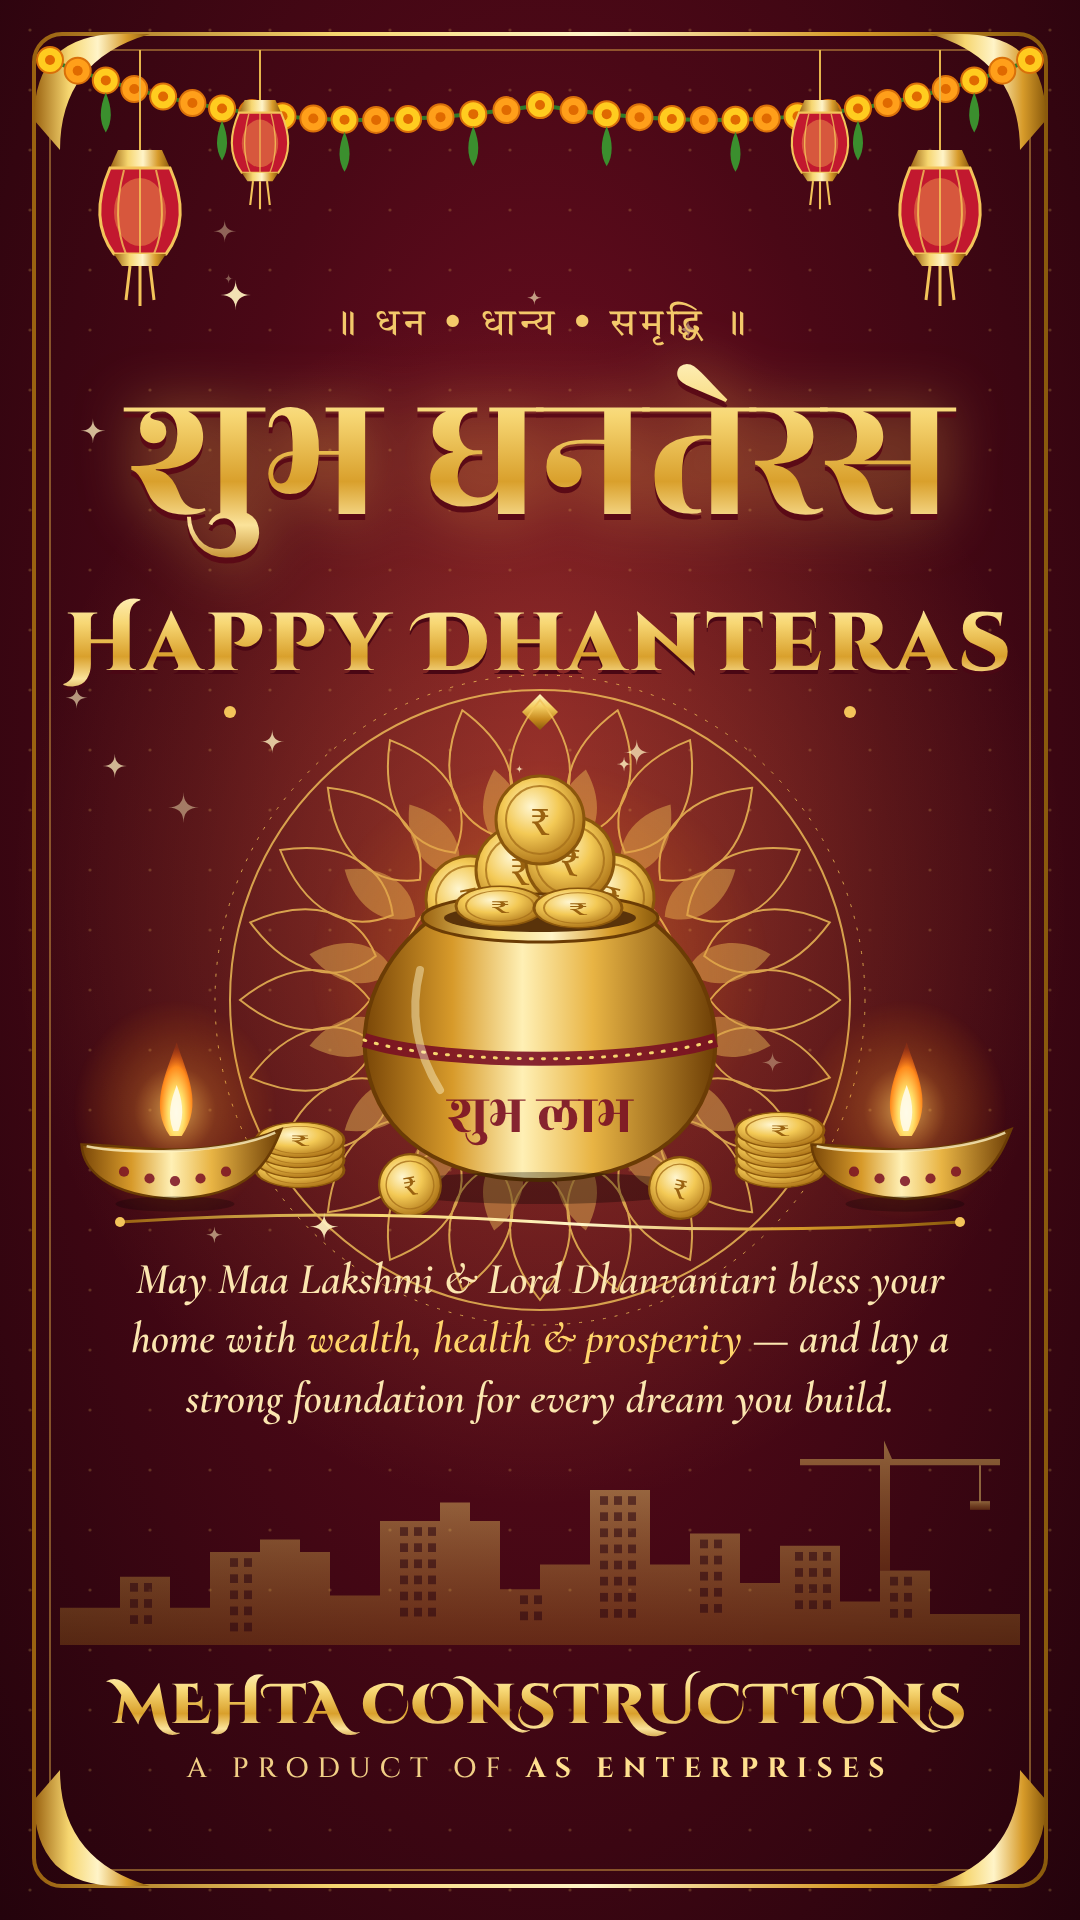
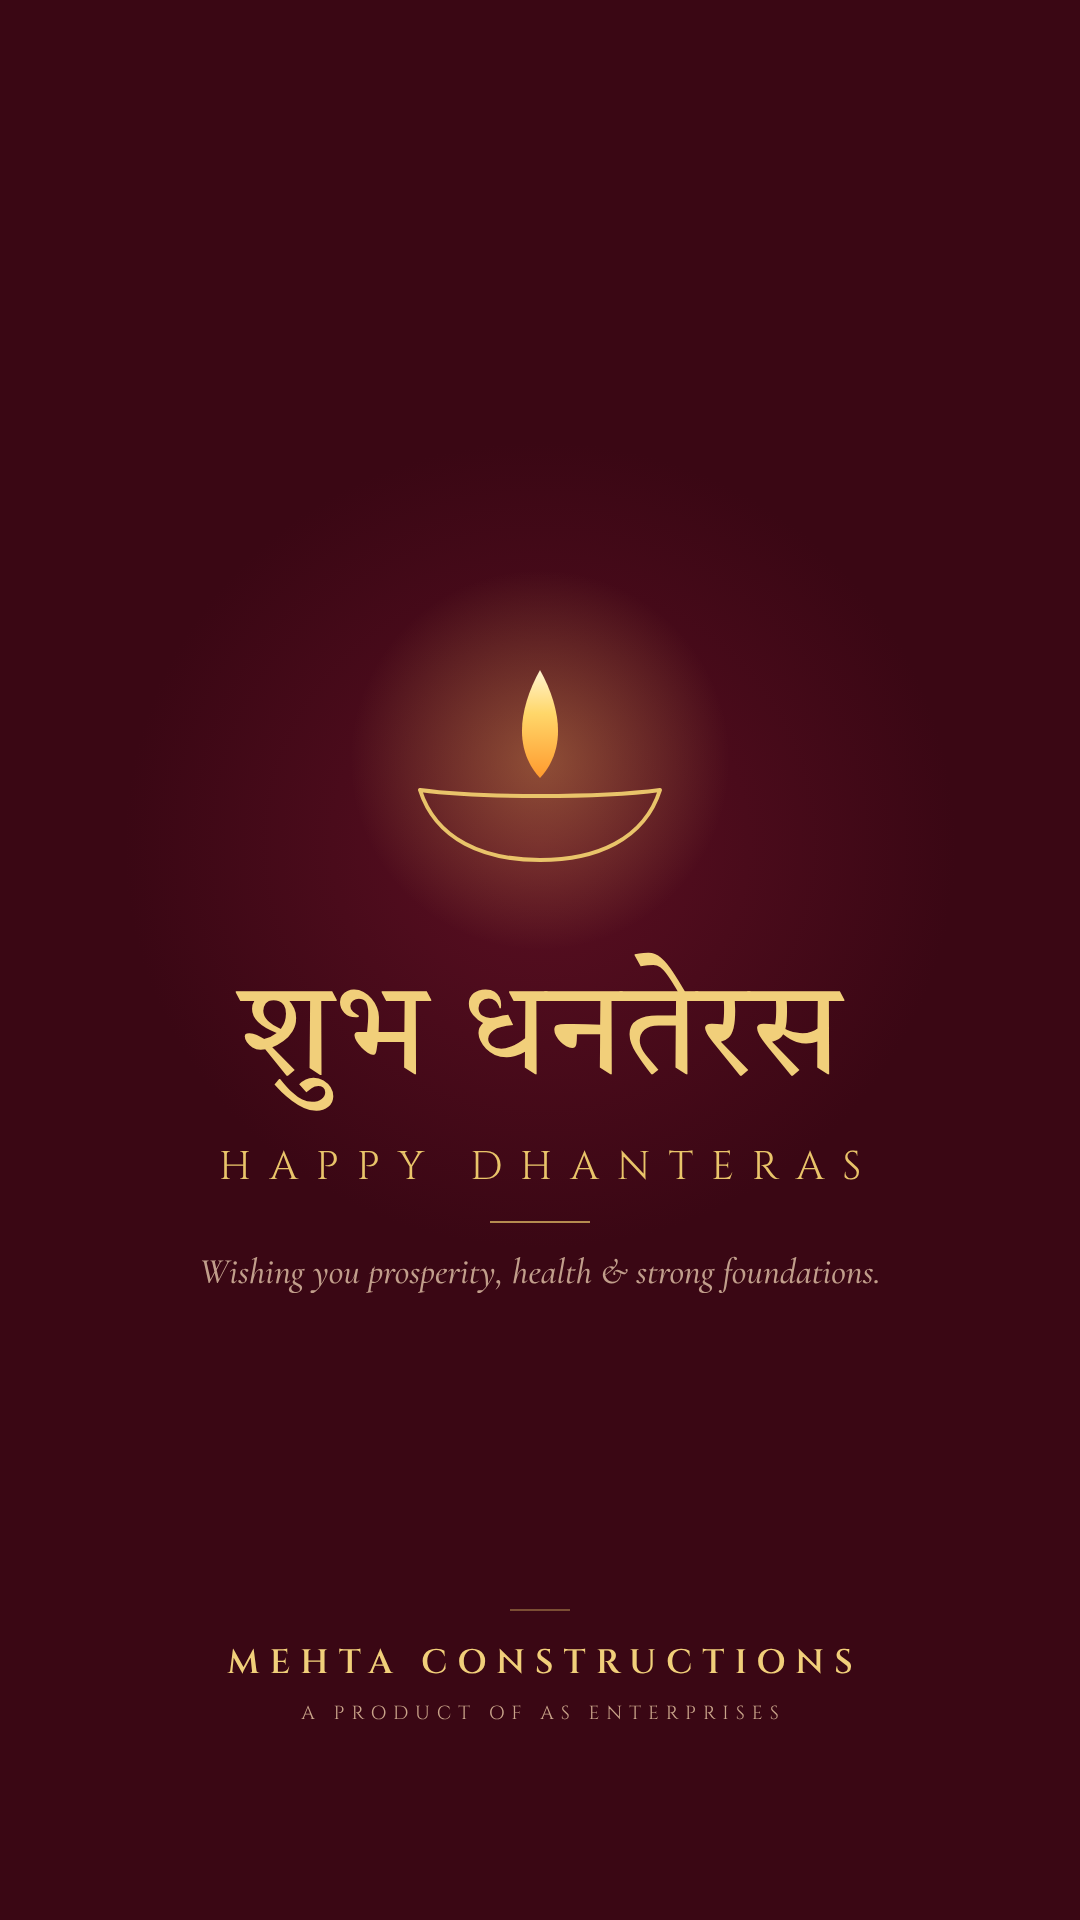
Make Dhanteras story poster minimal
Single line-art diya, title, one-line wish and brand on plain maroon.

Claude-Session: https://claude.ai/code/session_01NdyfKg8HmPHHoZPy2BmFos

diff --git a/dhanteras/story.html b/dhanteras/story.html
@@ -1,251 +1,56 @@
 <!doctype html>
 <html><head><meta charset="utf-8">
 <title>Happy Dhanteras – Mehta Constructions</title>
-<link href="https://fonts.googleapis.com/css2?family=Cinzel+Decorative:wght@700;900&family=Cinzel:wght@500;700&family=Rozha+One&family=Tiro+Devanagari+Hindi&family=Cormorant+Garamond:ital,wght@1,500;1,600&display=swap" rel="stylesheet">
+<link href="https://fonts.googleapis.com/css2?family=Cinzel:wght@400;600&family=Tiro+Devanagari+Hindi&family=Cormorant+Garamond:ital,wght@1,500&display=swap" rel="stylesheet">
 <style>
   *{margin:0;padding:0;box-sizing:border-box}
-  html,body{width:1080px;height:1920px;background:#2a0410;overflow:hidden}
+  html,body{width:1080px;height:1920px;background:#3a0714;overflow:hidden}
   .story{position:relative;width:1080px;height:1920px;overflow:hidden;
-    background:
-      radial-gradient(ellipse 70% 45% at 50% 47%, rgba(255,170,60,.28), transparent 70%),
-      radial-gradient(ellipse at 50% 40%, #7a1024 0%, #4a0816 45%, #24030c 100%);
-    color:#f6d77a;font-family:'Cinzel',serif}
-  .gold{background:linear-gradient(180deg,#fff3c4 0%,#f7d774 30%,#d9a02c 60%,#fbe39a 80%,#b67a17 100%);
-    -webkit-background-clip:text;background-clip:text;color:transparent}
+    background:radial-gradient(ellipse 55% 30% at 50% 44%, #5a0f22 0%, #3a0714 70%);color:#e9c46a}
   svg{position:absolute;left:0;top:0}
   .t{position:absolute;left:0;width:100%;text-align:center}
-  .kicker{top:300px;font-family:'Tiro Devanagari Hindi',serif;font-size:38px;letter-spacing:4px;color:#f3c96a}
-  .hi{top:350px;font-family:'Rozha One',serif;font-size:190px;line-height:1.15;
-      filter:drop-shadow(0 6px 0 #5b0a16) drop-shadow(0 0 30px rgba(255,190,80,.45))}
-  .en{top:590px;font-family:'Cinzel Decorative',serif;font-weight:900;font-size:82px;letter-spacing:4px;
-      filter:drop-shadow(0 4px 0 #4a0714)}
-  .msg{top:1250px;padding:0 120px;font-family:'Cormorant Garamond',serif;font-style:italic;font-weight:600;
-      font-size:44px;line-height:1.35;color:#fbe6b0}
-  .msg b{color:#ffd56b;font-weight:600}
-  .brand{top:1668px}
-  .brand .name{font-family:'Cinzel Decorative',serif;font-weight:900;font-size:56px;letter-spacing:2px}
-  .brand .sub{margin-top:6px;font-family:'Cinzel',serif;font-weight:500;font-size:28px;letter-spacing:9px;color:#f1cf86}
-  .brand .sub em{font-style:normal;font-weight:700;color:#ffe08f}
+  .hi{top:960px;font-family:'Tiro Devanagari Hindi',serif;font-size:132px;line-height:1.2;color:#f1cf7a}
+  .en{top:1140px;font-family:'Cinzel',serif;font-weight:400;font-size:40px;letter-spacing:18px;padding-left:18px;color:#e9c46a}
+  .msg{top:1250px;font-family:'Cormorant Garamond',serif;font-style:italic;font-weight:500;font-size:36px;color:#d9b9a0;opacity:.85}
+  .brand{top:1640px}
+  .brand .name{font-family:'Cinzel',serif;font-weight:600;font-size:34px;letter-spacing:10px;padding-left:10px;color:#f1cf7a}
+  .brand .sub{margin-top:14px;font-family:'Cinzel',serif;font-size:19px;letter-spacing:7px;padding-left:7px;color:#c9a48a}
 </style></head>
 <body><div class="story">
 
-<!-- ===== background + illustration layer ===== -->
 <svg width="1080" height="1920" viewBox="0 0 1080 1920">
   <defs>
-    <linearGradient id="g" x1="0" y1="0" x2="0" y2="1">
-      <stop offset="0" stop-color="#fff2bf"/><stop offset=".35" stop-color="#f4cf63"/>
-      <stop offset=".7" stop-color="#c88a1e"/><stop offset="1" stop-color="#8a5a0c"/>
-    </linearGradient>
-    <linearGradient id="gh" x1="0" y1="0" x2="1" y2="0">
-      <stop offset="0" stop-color="#9a6210"/><stop offset=".3" stop-color="#f6d670"/>
-      <stop offset=".55" stop-color="#fff4c8"/><stop offset=".8" stop-color="#d79b2a"/><stop offset="1" stop-color="#8a5a0c"/>
-    </linearGradient>
-    <radialGradient id="coin" cx=".4" cy=".35" r=".7">
-      <stop offset="0" stop-color="#fff6cf"/><stop offset=".45" stop-color="#f3c955"/><stop offset="1" stop-color="#a86d12"/>
-    </radialGradient>
-    <radialGradient id="flame" cx=".5" cy=".75" r=".7">
-      <stop offset="0" stop-color="#fffbe6"/><stop offset=".35" stop-color="#ffe06a"/>
-      <stop offset=".7" stop-color="#ff8a1c"/><stop offset="1" stop-color="#e2420a" stop-opacity=".2"/>
-    </radialGradient>
     <radialGradient id="glow" cx=".5" cy=".5" r=".5">
-      <stop offset="0" stop-color="#ffd36b" stop-opacity=".75"/><stop offset=".4" stop-color="#ff9a2a" stop-opacity=".25"/>
-      <stop offset="1" stop-color="#ff7a00" stop-opacity="0"/>
+      <stop offset="0" stop-color="#ffc861" stop-opacity=".35"/>
+      <stop offset="1" stop-color="#ffc861" stop-opacity="0"/>
     </radialGradient>
-    <linearGradient id="pot" x1="0" y1="0" x2="1" y2="0">
-      <stop offset="0" stop-color="#7a4708"/><stop offset=".25" stop-color="#d79a2a"/>
-      <stop offset=".45" stop-color="#fff0b5"/><stop offset=".65" stop-color="#e8b444"/><stop offset="1" stop-color="#6e3f06"/>
+    <linearGradient id="flame" x1="0" y1="1" x2="0" y2="0">
+      <stop offset="0" stop-color="#ff9a2e"/><stop offset=".6" stop-color="#ffd76a"/><stop offset="1" stop-color="#fff4d0"/>
     </linearGradient>
-    <linearGradient id="sky" x1="0" y1="0" x2="0" y2="1">
-      <stop offset="0" stop-color="#f6d670" stop-opacity=".9"/><stop offset="1" stop-color="#b9801c" stop-opacity=".55"/>
-    </linearGradient>
-
-    <!-- mandala petal ring -->
-    <g id="petal"><path d="M0,-300 C40,-250 40,-200 0,-170 C-40,-200 -40,-250 0,-300Z" fill="none" stroke="#f3c45a" stroke-width="2"/></g>
-    <g id="petal2"><path d="M0,-235 C26,-205 26,-170 0,-150 C-26,-170 -26,-205 0,-235Z" fill="#f3c45a" opacity=".55"/></g>
-
-    <!-- coin -->
-    <g id="c">
-      <ellipse rx="44" ry="44" fill="url(#coin)" stroke="#8a560c" stroke-width="3"/>
-      <ellipse rx="34" ry="34" fill="none" stroke="#a8701a" stroke-width="2" opacity=".8"/>
-      <text y="15" text-anchor="middle" font-family="Tiro Devanagari Hindi,serif" font-size="42" fill="#9a6210">₹</text>
-    </g>
-
-    <!-- diya -->
-    <g id="diya">
-      <ellipse cx="0" cy="-70" rx="120" ry="130" fill="url(#glow)"/>
-      <path d="M-6,-40 C-30,-75 -12,-110 2,-150 C14,-112 34,-78 8,-40 Z" fill="url(#flame)"/>
-      <path d="M-2,-46 C-10,-66 -4,-84 2,-100 C8,-84 12,-66 4,-46 Z" fill="#fffbe8" opacity=".9"/>
-      <path d="M-110,-30 C-80,-30 -40,-24 0,-24 C40,-24 80,-30 125,-48 C110,-10 90,30 0,34 C-80,30 -108,0 -110,-30Z" fill="url(#pot)" stroke="#6b3c05" stroke-width="3"/>
-      <path d="M-104,-28 C-60,-18 60,-18 118,-44" fill="none" stroke="#fff3c0" stroke-width="3" opacity=".8"/>
-      <g fill="#7a1024" opacity=".85">
-        <circle cx="-60" cy="2" r="6"/><circle cx="-30" cy="10" r="6"/><circle cx="0" cy="13" r="6"/><circle cx="30" cy="10" r="6"/><circle cx="60" cy="2" r="6"/>
-      </g>
-      <ellipse cx="0" cy="40" rx="70" ry="9" fill="#000" opacity=".25"/>
-    </g>
-
-    <!-- hanging lantern -->
-    <g id="lamp">
-      <line x1="0" y1="0" x2="0" y2="1" stroke="#e5b54c" stroke-width="2"/>
-      <path d="M-22,0 L22,0 L30,18 L-30,18Z" fill="url(#gh)"/>
-      <path d="M-30,18 C-44,50 -44,80 -26,104 L26,104 C44,80 44,50 30,18Z" fill="#c2182f" stroke="#f3c45a" stroke-width="3"/>
-      <path d="M0,18 L0,104 M-16,20 C-24,50 -24,80 -14,104 M16,20 C24,50 24,80 14,104" stroke="#f3c45a" stroke-width="2" fill="none" opacity=".8"/>
-      <ellipse cx="0" cy="62" rx="26" ry="34" fill="#ffcf5a" opacity=".35"/>
-      <path d="M-26,104 L26,104 L18,116 L-18,116Z" fill="url(#gh)"/>
-      <path d="M-10,116 L-14,150 M0,116 L0,156 M10,116 L14,150" stroke="#f3c45a" stroke-width="3"/>
-    </g>
-
-    <pattern id="dots" width="60" height="60" patternUnits="userSpaceOnUse">
-      <circle cx="30" cy="30" r="1.6" fill="#f3c45a" opacity=".22"/>
-    </pattern>
   </defs>
 
-  <rect width="1080" height="1920" fill="url(#dots)"/>
-
-  <!-- ornate border -->
-  <rect x="34" y="34" width="1012" height="1852" rx="28" fill="none" stroke="url(#gh)" stroke-width="4"/>
-  <rect x="50" y="50" width="980" height="1820" rx="20" fill="none" stroke="#e6b24a" stroke-width="1.5" opacity=".6"/>
-  <g fill="url(#gh)">
-    <path d="M34,120 Q34,34 120,34 L150,34 Q60,60 60,150Z"/>
-    <path d="M1046,120 Q1046,34 960,34 L930,34 Q1020,60 1020,150Z"/>
-    <path d="M34,1800 Q34,1886 120,1886 L150,1886 Q60,1860 60,1770Z"/>
-    <path d="M1046,1800 Q1046,1886 960,1886 L930,1886 Q1020,1860 1020,1770Z"/>
+  <!-- single diya -->
+  <g transform="translate(540 820)">
+    <circle cy="-60" r="190" fill="url(#glow)"/>
+    <path d="M0,-150 C22,-110 26,-70 0,-42 C-26,-70 -22,-110 0,-150Z" fill="url(#flame)"/>
+    <path d="M-120,-30 C-60,-22 60,-22 120,-30 C104,20 56,40 0,40 C-56,40 -104,20 -120,-30Z"
+          fill="none" stroke="#e9c46a" stroke-width="4" stroke-linejoin="round"/>
   </g>
 
-  <!-- marigold toran -->
-  <path d="M50,60 Q270,150 540,105 Q810,150 1030,60" fill="none" stroke="#2f7a2a" stroke-width="4"/>
-  <g id="toran">
-  </g>
+  <!-- thin divider -->
+  <line x1="490" y1="1222" x2="590" y2="1222" stroke="#e9c46a" stroke-width="2" opacity=".7"/>
 
-  <!-- hanging lanterns -->
-  <line x1="140" y1="50" x2="140" y2="150" stroke="#e5b54c" stroke-width="2"/>
-  <use href="#lamp" x="140" y="150"/>
-  <line x1="940" y1="50" x2="940" y2="150" stroke="#e5b54c" stroke-width="2"/>
-  <use href="#lamp" x="940" y="150"/>
-  <line x1="260" y1="50" x2="260" y2="100" stroke="#e5b54c" stroke-width="2"/>
-  <use href="#lamp" x="260" y="100" transform="translate(260 100) scale(.7) translate(-260 -100)"/>
-  <line x1="820" y1="50" x2="820" y2="100" stroke="#e5b54c" stroke-width="2"/>
-  <use href="#lamp" x="820" y="100" transform="translate(820 100) scale(.7) translate(-820 -100)"/>
-
-  <!-- divider under English title -->
-  <g transform="translate(540 712)">
-    <line x1="-300" y1="0" x2="-40" y2="0" stroke="url(#gh)" stroke-width="3"/>
-    <line x1="40" y1="0" x2="300" y2="0" stroke="url(#gh)" stroke-width="3"/>
-    <path d="M0,-18 L18,0 L0,18 L-18,0Z" fill="url(#g)"/>
-    <circle cx="-310" r="6" fill="#f3c45a"/><circle cx="310" r="6" fill="#f3c45a"/>
-  </g>
-
-  <!-- mandala -->
-  <g id="mandala" transform="translate(540 1000)" opacity=".8"></g>
-
-  <!-- pot of gold (kalash) -->
-  <g transform="translate(540 1010)">
-    <ellipse cx="0" cy="-40" rx="230" ry="210" fill="url(#glow)" opacity=".8"/>
-    <!-- coins overflowing on top -->
-    <use href="#c" x="-70" y="-110" transform="rotate(-12 -70 -110)"/>
-    <use href="#c" x="70" y="-112" transform="rotate(14 70 -112)"/>
-    <use href="#c" x="-20" y="-140"/>
-    <use href="#c" x="30" y="-150" transform="rotate(8 30 -150)"/>
-    <use href="#c" x="0" y="-190"/>
-    <!-- pot body -->
-    <path d="M-110,-90 C-150,-60 -190,0 -170,70 C-150,140 -80,170 0,170 C80,170 150,140 170,70 C190,0 150,-60 110,-90Z" fill="url(#pot)" stroke="#6b3c05" stroke-width="4"/>
-    <ellipse cx="0" cy="-92" rx="118" ry="24" fill="url(#gh)" stroke="#6b3c05" stroke-width="3"/>
-    <ellipse cx="0" cy="-92" rx="96" ry="14" fill="#5a330a"/>
-    <use href="#c" x="-40" y="-104" transform="translate(-40 -104) scale(1 .45) translate(40 104)"/>
-    <use href="#c" x="38" y="-102" transform="translate(38 -102) scale(1 .45) translate(-38 102)"/>
-    <!-- band + swastik-free auspicious motif: shubh -->
-    <path d="M-176,30 C-100,55 100,55 176,30" fill="none" stroke="#7a1024" stroke-width="14" opacity=".9"/>
-    <path d="M-176,30 C-100,55 100,55 176,30" fill="none" stroke="#f6d670" stroke-width="3" stroke-dasharray="2 10" stroke-linecap="round"/>
-    <text x="0" y="122" text-anchor="middle" font-family="Rozha One,serif" font-size="58" fill="#7a1024" opacity=".9">शुभ लाभ</text>
-    <path d="M-120,-40 C-130,0 -125,40 -100,80" stroke="#fff6cf" stroke-width="8" fill="none" opacity=".45" stroke-linecap="round"/>
-    <ellipse cx="0" cy="178" rx="160" ry="16" fill="#000" opacity=".3"/>
-  </g>
-
-  <!-- coins spilled + stacks -->
-  <g>
-    <use href="#c" x="300" y="1170" transform="translate(300 1170) scale(1 .4) translate(-300 -1170)"/>
-    <use href="#c" x="300" y="1160" transform="translate(300 1160) scale(1 .4) translate(-300 -1160)"/>
-    <use href="#c" x="300" y="1150" transform="translate(300 1150) scale(1 .4) translate(-300 -1150)"/>
-    <use href="#c" x="300" y="1140" transform="translate(300 1140) scale(1 .4) translate(-300 -1140)"/>
-    <use href="#c" x="780" y="1170" transform="translate(780 1170) scale(1 .4) translate(-780 -1170)"/>
-    <use href="#c" x="780" y="1160" transform="translate(780 1160) scale(1 .4) translate(-780 -1160)"/>
-    <use href="#c" x="780" y="1150" transform="translate(780 1150) scale(1 .4) translate(-780 -1150)"/>
-    <use href="#c" x="780" y="1140" transform="translate(780 1140) scale(1 .4) translate(-780 -1140)"/>
-    <use href="#c" x="780" y="1130" transform="translate(780 1130) scale(1 .4) translate(-780 -1130)"/>
-    <use href="#c" x="410" y="1185" transform="translate(410 1185) scale(.7) rotate(-10) translate(-410 -1185)"/>
-    <use href="#c" x="680" y="1188" transform="translate(680 1188) scale(.7) rotate(12) translate(-680 -1188)"/>
-  </g>
-
-  <!-- diyas -->
-  <use href="#diya" x="175" y="1170" transform="translate(175 1170) scale(.85) translate(-175 -1170)"/>
-  <use href="#diya" x="905" y="1170" transform="translate(905 1170) scale(.85) translate(-905 -1170)"/>
-
-  <!-- rangoli line under illustration -->
-  <g transform="translate(540 1222)">
-    <path d="M-420,0 Q-210,-14 0,0 Q210,14 420,0" fill="none" stroke="url(#gh)" stroke-width="3"/>
-    <g fill="#f3c45a"><circle cx="-420" r="5"/><circle cx="420" r="5"/></g>
-  </g>
-
-  <!-- gold skyline (construction) -->
-  <g transform="translate(0 1645) scale(1 .62)" fill="url(#sky)" opacity=".5">
-    <path d="M60,0 V-60 H120 V-110 H170 V-60 H210 V-150 H260 V-170 H300 V-150 H330 V-80 H380 V-200 H440 V-230 H470 V-200 H500 V-90 H540 V-130 H590 V-250 H650 V-130 H690 V-180 H740 V-100 H780 V-160 H840 V-70 H880 V-120 H930 V-50 H1020 V0Z"/>
-    <!-- crane -->
-    <path d="M880,-120 V-300 H890 V-120Z M800,-300 H1000 V-290 H800Z M884,-300 L884,-330 L892,-300Z"/>
-    <path d="M980,-290 V-230" stroke="#f6d670" stroke-width="2" opacity=".9"/>
-    <rect x="970" y="-232" width="20" height="14"/>
-  </g>
-  <g transform="translate(0 1645) scale(1 .62)" fill="#2a0410" opacity=".55">
-    <!-- windows -->
-    <g id="win"></g>
-  </g>
-  <line x1="60" y1="1645" x2="1020" y2="1645" stroke="url(#gh)" stroke-width="3"/>
-
-  <!-- sparkles -->
-  <g id="spark" fill="#fff1bf"></g>
+  <!-- brand divider -->
+  <line x1="510" y1="1610" x2="570" y2="1610" stroke="#e9c46a" stroke-width="1.5" opacity=".5"/>
 </svg>
 
-<div class="t kicker">॥ धन • धान्य • समृद्धि ॥</div>
-<div class="t hi gold">शुभ धनतेरस</div>
-<div class="t en gold">Happy Dhanteras</div>
-
-<div class="t msg">May Maa Lakshmi &amp; Lord Dhanvantari bless your home with <b>wealth, health &amp; prosperity</b> — and lay a strong foundation for every dream you build.</div>
+<div class="t hi">शुभ धनतेरस</div>
+<div class="t en">HAPPY DHANTERAS</div>
+<div class="t msg">Wishing you prosperity, health &amp; strong foundations.</div>
 
 <div class="t brand">
-  <div class="name gold">MEHTA CONSTRUCTIONS</div>
-  <div class="sub">A PRODUCT OF <em>AS ENTERPRISES</em></div>
+  <div class="name">MEHTA CONSTRUCTIONS</div>
+  <div class="sub">A PRODUCT OF AS ENTERPRISES</div>
 </div>
 
-</div>
-<script>
-const NS='http://www.w3.org/2000/svg';
-const mk=(t,a)=>{const e=document.createElementNS(NS,t);for(const k in a)e.setAttribute(k,a[k]);return e};
-// mandala rings
-const m=document.getElementById('mandala');
-for(let i=0;i<24;i++){m.appendChild(mk('use',{href:'#petal',transform:`rotate(${i*15})`}));}
-for(let i=0;i<16;i++){m.appendChild(mk('use',{href:'#petal2',transform:`rotate(${i*22.5+11.25})`}));}
-[310,325,145].forEach((r,i)=>m.appendChild(mk('circle',{r,fill:'none',stroke:'#f3c45a','stroke-width':i==1?1:2,'stroke-dasharray':i==1?'3 9':''})));
-// marigold toran
-const t=document.getElementById('toran');
-const q=(p0,p1,p2,s)=>[(1-s)**2*p0[0]+2*(1-s)*s*p1[0]+s*s*p2[0],(1-s)**2*p0[1]+2*(1-s)*s*p1[1]+s*s*p2[1]];
-const segs=[[[50,60],[270,150],[540,105]],[[540,105],[810,150],[1030,60]]];
-segs.forEach(sg=>{for(let i=0;i<=16;i++){const [x,y]=q(...sg,i/16);
-  const col=i%2?'#ff9f1a':'#ffcc1f';
-  t.appendChild(mk('circle',{cx:x,cy:y,r:13,fill:col,stroke:'#d9700a','stroke-width':2}));
-  t.appendChild(mk('circle',{cx:x,cy:y,r:5,fill:'#e06a00'}));
-  if(i%4==2){t.appendChild(mk('path',{d:`M${x},${y+12} q-10,24 0,40 q10,-16 0,-40`,fill:'#3b8f2e'}));}
-}});
-// windows on skyline
-const w=document.getElementById('win');
-[[230,-140,2,5],[400,-190,3,6],[600,-240,3,8],[700,-170,2,5],[795,-150,3,4],[130,-100,2,3],[520,-80,2,2],[890,-110,2,3]].forEach(([x0,y0,c,r])=>{
-  for(let a=0;a<c;a++)for(let b=0;b<r;b++)w.appendChild(mk('rect',{x:x0+a*14,y:y0+b*26,width:8,height:14}));
-});
-// sparkles
-const sp=document.getElementById('spark');
-const star=(x,y,s,o)=>sp.appendChild(mk('path',{d:`M${x},${y-s} Q${x},${y} ${x+s},${y} Q${x},${y} ${x},${y+s} Q${x},${y} ${x-s},${y} Q${x},${y} ${x},${y-s}Z`,opacity:o}));
-let seed=7;const rnd=()=>(seed=(seed*9301+49297)%233280)/233280;
-for(let i=0;i<55;i++){const x=70+rnd()*940,y=230+rnd()*1300;
-  if(y>330&&y<730&&x>110&&x<970)continue; // keep titles clean
-  if(y>800&&y<1240&&x>330&&x<750)continue;
-  if(y>1235)continue;
-  star(x,y,4+rnd()*12,.35+rnd()*.6);}
-</script>
-</body></html>
+</div></body></html>
